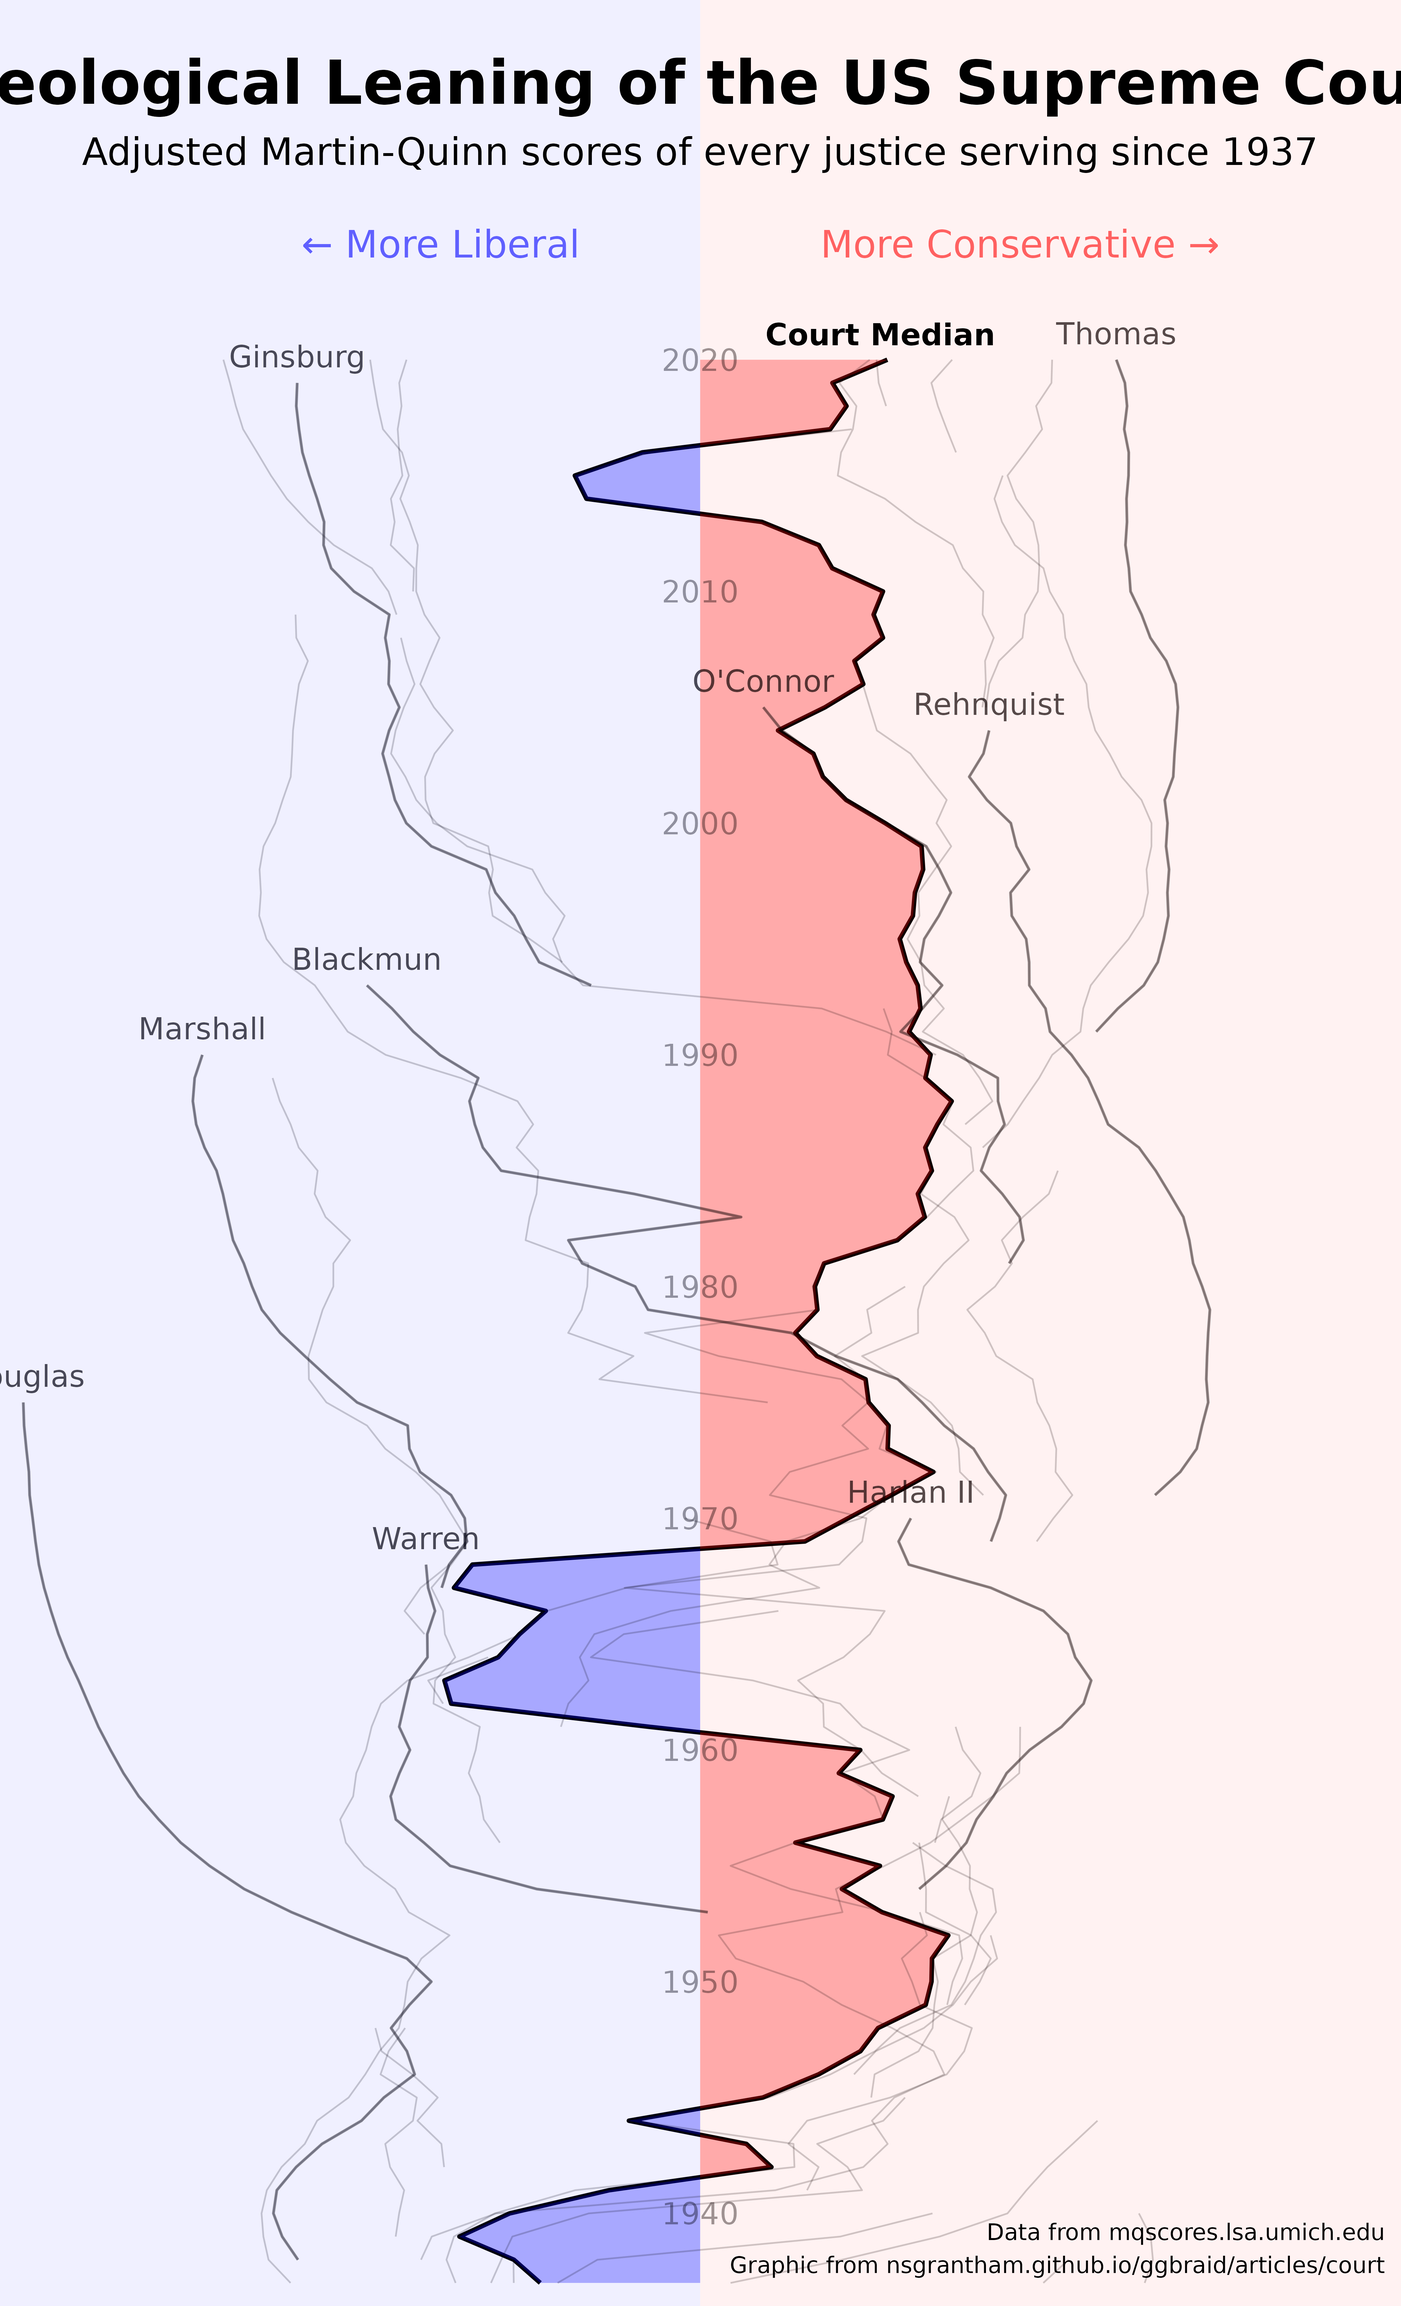
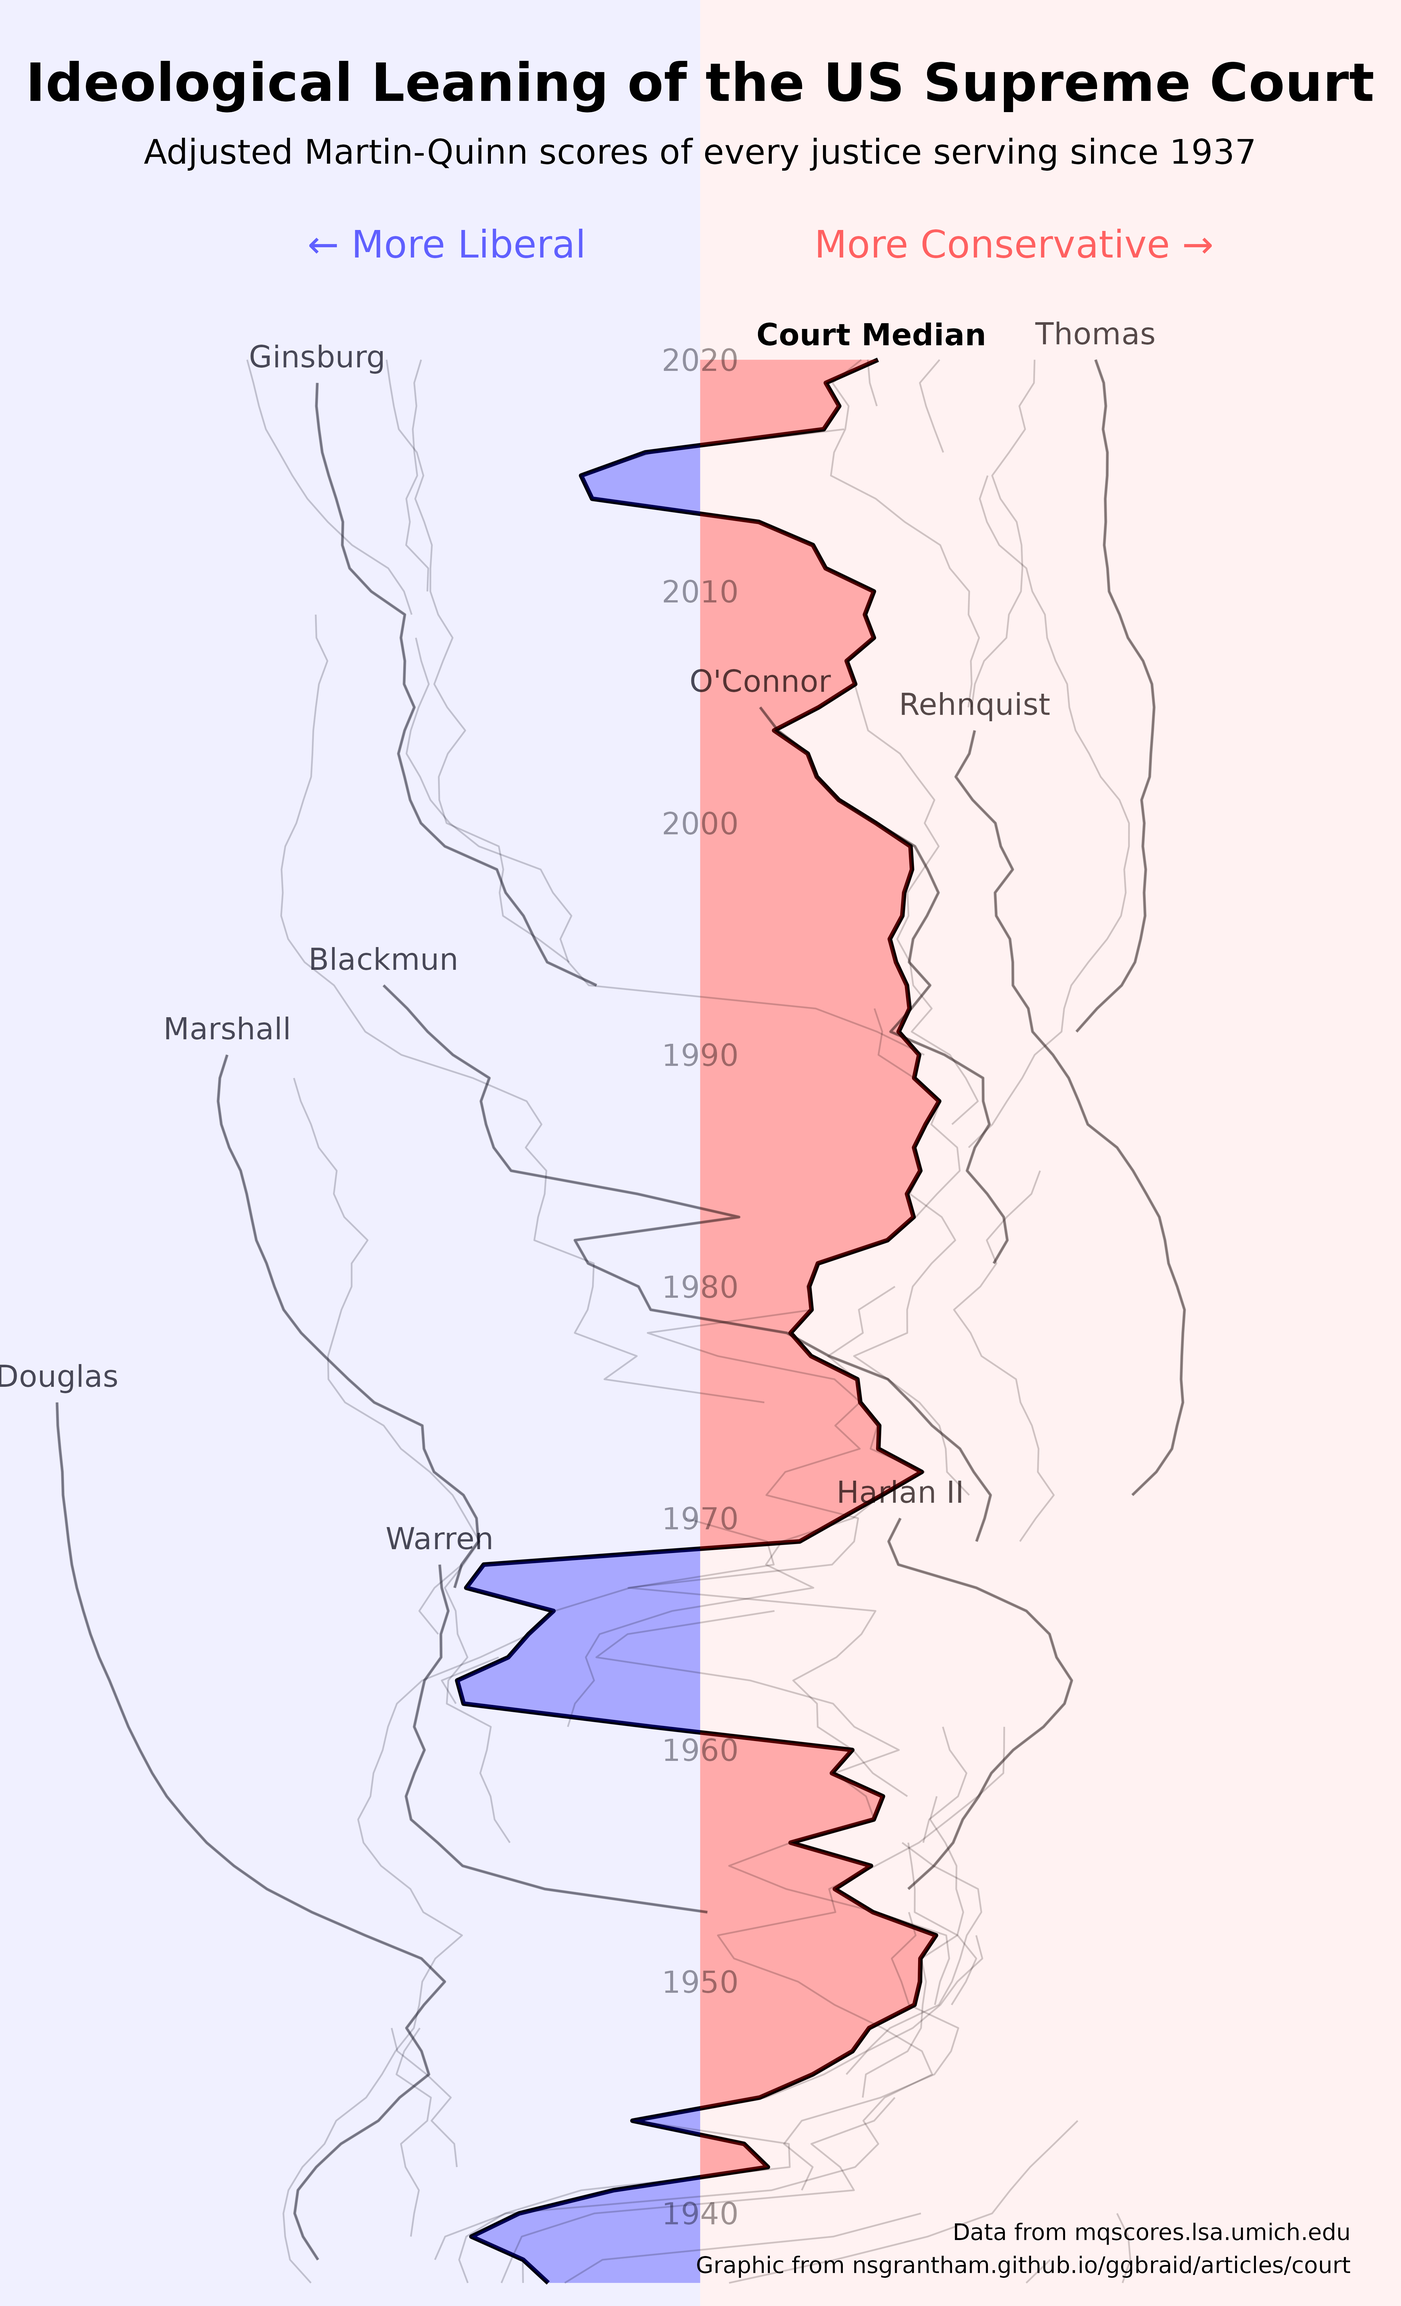
Built site for ggbraid: 0.2.1@149ef15

diff --git a/articles/court.html b/articles/court.html
@@ -340,13 +340,13 @@
   <span class="fu"><a href="https://ggplot2.tidyverse.org/reference/geom_text.html" class="external-link">geom_text</a></span><span class="op">(</span><span class="fu"><a href="https://ggplot2.tidyverse.org/reference/aes.html" class="external-link">aes</a></span><span class="op">(</span>label <span class="op">=</span> <span class="va">year</span>, x <span class="op">=</span> <span class="fl">0</span><span class="op">)</span>, data <span class="op">=</span> <span class="va">decades</span>, size <span class="op">=</span> <span class="fl">4</span>, alpha <span class="op">=</span> <span class="fl">0.4</span><span class="op">)</span> <span class="op">+</span>
   <span class="fu"><a href="https://ggplot2.tidyverse.org/reference/annotate.html" class="external-link">annotate</a></span><span class="op">(</span><span class="st">"rect"</span>, xmin <span class="op">=</span> <span class="op">-</span><span class="cn">Inf</span>, xmax <span class="op">=</span> <span class="fl">0</span>, ymin <span class="op">=</span> <span class="op">-</span><span class="cn">Inf</span>, ymax <span class="op">=</span> <span class="cn">Inf</span>, fill <span class="op">=</span> <span class="st">"blue"</span>, alpha <span class="op">=</span> <span class="fl">0.06</span><span class="op">)</span> <span class="op">+</span>
   <span class="fu"><a href="https://ggplot2.tidyverse.org/reference/annotate.html" class="external-link">annotate</a></span><span class="op">(</span><span class="st">"rect"</span>, xmin <span class="op">=</span> <span class="fl">0</span>, xmax <span class="op">=</span> <span class="cn">Inf</span>, ymin <span class="op">=</span> <span class="op">-</span><span class="cn">Inf</span>, ymax <span class="op">=</span> <span class="cn">Inf</span>, fill <span class="op">=</span> <span class="st">"red"</span>, alpha <span class="op">=</span> <span class="fl">0.05</span><span class="op">)</span> <span class="op">+</span>
-  <span class="fu"><a href="https://ggplot2.tidyverse.org/reference/annotate.html" class="external-link">annotate</a></span><span class="op">(</span><span class="st">"text"</span>, x <span class="op">=</span> <span class="fl">0</span>, y <span class="op">=</span> <span class="fl">2032</span>, label <span class="op">=</span> <span class="st">"Ideological Leaning of the US Supreme Court"</span>, fontface <span class="op">=</span> <span class="st">"bold"</span>, size <span class="op">=</span> <span class="fl">8</span><span class="op">)</span> <span class="op">+</span>
-  <span class="fu"><a href="https://ggplot2.tidyverse.org/reference/annotate.html" class="external-link">annotate</a></span><span class="op">(</span><span class="st">"text"</span>, x <span class="op">=</span> <span class="fl">0</span>, y <span class="op">=</span> <span class="fl">2029</span>, label <span class="op">=</span> <span class="st">"Adjusted Martin-Quinn scores of every justice serving since 1937"</span>, size <span class="op">=</span> <span class="fl">5</span><span class="op">)</span> <span class="op">+</span>
+  <span class="fu"><a href="https://ggplot2.tidyverse.org/reference/annotate.html" class="external-link">annotate</a></span><span class="op">(</span><span class="st">"text"</span>, x <span class="op">=</span> <span class="fl">0</span>, y <span class="op">=</span> <span class="fl">2032</span>, label <span class="op">=</span> <span class="st">"Ideological Leaning of the US Supreme Court"</span>, fontface <span class="op">=</span> <span class="st">"bold"</span>, size <span class="op">=</span> <span class="fl">7</span><span class="op">)</span> <span class="op">+</span>
+  <span class="fu"><a href="https://ggplot2.tidyverse.org/reference/annotate.html" class="external-link">annotate</a></span><span class="op">(</span><span class="st">"text"</span>, x <span class="op">=</span> <span class="fl">0</span>, y <span class="op">=</span> <span class="fl">2029</span>, label <span class="op">=</span> <span class="st">"Adjusted Martin-Quinn scores of every justice serving since 1937"</span>, size <span class="op">=</span> <span class="fl">4.5</span><span class="op">)</span> <span class="op">+</span>
   <span class="fu"><a href="https://ggplot2.tidyverse.org/reference/annotate.html" class="external-link">annotate</a></span><span class="op">(</span><span class="st">"text"</span>, x <span class="op">=</span> <span class="fl">2.85</span>, y <span class="op">=</span> <span class="fl">1938.5</span>, label <span class="op">=</span> <span class="st">"Data from mqscores.lsa.umich.edu\nGraphic from nsgrantham.github.io/ggbraid/articles/court"</span>, size <span class="op">=</span> <span class="fl">3</span>, hjust <span class="op">=</span> <span class="fl">1</span><span class="op">)</span> <span class="op">+</span>
   <span class="fu"><a href="https://ggplot2.tidyverse.org/reference/annotate.html" class="external-link">annotate</a></span><span class="op">(</span><span class="st">"text"</span>, x <span class="op">=</span> <span class="op">-</span><span class="fl">0.5</span>, y <span class="op">=</span> <span class="fl">2025</span>, label <span class="op">=</span> <span class="st">"← More Liberal"</span>, hjust <span class="op">=</span> <span class="fl">1</span>, color <span class="op">=</span> <span class="st">"blue"</span>, size <span class="op">=</span> <span class="fl">5</span>, alpha <span class="op">=</span> <span class="fl">0.6</span><span class="op">)</span> <span class="op">+</span>
   <span class="fu"><a href="https://ggplot2.tidyverse.org/reference/annotate.html" class="external-link">annotate</a></span><span class="op">(</span><span class="st">"text"</span>, x <span class="op">=</span> <span class="fl">0.5</span>, y <span class="op">=</span> <span class="fl">2025</span>, label <span class="op">=</span> <span class="st">"More Conservative →"</span>, hjust <span class="op">=</span> <span class="fl">0</span>, color <span class="op">=</span> <span class="st">"red"</span>, size <span class="op">=</span> <span class="fl">5</span>, alpha <span class="op">=</span> <span class="fl">0.6</span><span class="op">)</span> <span class="op">+</span>
   <span class="fu"><a href="https://ggplot2.tidyverse.org/reference/annotate.html" class="external-link">annotate</a></span><span class="op">(</span><span class="st">"text"</span>, x <span class="op">=</span> <span class="fl">0.75</span>, y <span class="op">=</span> <span class="fl">2021.1</span>, label <span class="op">=</span> <span class="st">"Court Median"</span>, fontface <span class="op">=</span> <span class="st">"bold"</span>, size <span class="op">=</span> <span class="fl">4</span><span class="op">)</span> <span class="op">+</span>
-  <span class="fu"><a href="https://ggplot2.tidyverse.org/reference/scale_continuous.html" class="external-link">scale_x_continuous</a></span><span class="op">(</span>limits <span class="op">=</span> <span class="fu"><a href="https://rdrr.io/r/base/c.html" class="external-link">c</a></span><span class="op">(</span><span class="op">-</span><span class="fl">2.85</span>, <span class="fl">2.85</span><span class="op">)</span>, expand <span class="op">=</span> <span class="fu"><a href="https://rdrr.io/r/base/c.html" class="external-link">c</a></span><span class="op">(</span><span class="fl">0.01</span>, <span class="fl">0.01</span><span class="op">)</span><span class="op">)</span> <span class="op">+</span>
+  <span class="fu"><a href="https://ggplot2.tidyverse.org/reference/scale_continuous.html" class="external-link">scale_x_continuous</a></span><span class="op">(</span>limits <span class="op">=</span> <span class="fu"><a href="https://rdrr.io/r/base/c.html" class="external-link">c</a></span><span class="op">(</span><span class="op">-</span><span class="fl">3</span>, <span class="fl">3</span><span class="op">)</span>, expand <span class="op">=</span> <span class="fu"><a href="https://rdrr.io/r/base/c.html" class="external-link">c</a></span><span class="op">(</span><span class="fl">0.01</span>, <span class="fl">0.01</span><span class="op">)</span><span class="op">)</span> <span class="op">+</span>
   <span class="fu"><a href="https://ggplot2.tidyverse.org/reference/scale_continuous.html" class="external-link">scale_y_continuous</a></span><span class="op">(</span>limits <span class="op">=</span> <span class="fu"><a href="https://rdrr.io/r/base/c.html" class="external-link">c</a></span><span class="op">(</span><span class="cn">NA</span>, <span class="fl">2034.5</span><span class="op">)</span>, expand <span class="op">=</span> <span class="fu"><a href="https://rdrr.io/r/base/c.html" class="external-link">c</a></span><span class="op">(</span><span class="fl">0.01</span>, <span class="fl">0.05</span><span class="op">)</span><span class="op">)</span> <span class="op">+</span>
   <span class="fu"><a href="https://ggplot2.tidyverse.org/reference/scale_manual.html" class="external-link">scale_fill_manual</a></span><span class="op">(</span>values <span class="op">=</span> <span class="fu"><a href="https://rdrr.io/r/base/c.html" class="external-link">c</a></span><span class="op">(</span><span class="st">"red"</span>, <span class="st">"blue"</span><span class="op">)</span><span class="op">)</span> <span class="op">+</span>
   <span class="fu"><a href="https://ggplot2.tidyverse.org/reference/guides.html" class="external-link">guides</a></span><span class="op">(</span>fill <span class="op">=</span> <span class="st">"none"</span><span class="op">)</span> <span class="op">+</span>
@@ -371,7 +371,7 @@
 
     <footer><div class="pkgdown-footer-left">
   <p></p>
-<p>Developed by <a href="https://nsgrantham.com" class="external-link">Neal Grantham</a>.</p>
+<p>Developed by <a href="https://twitter.com/nsgrantham" class="external-link">Neal Grantham</a>.</p>
 </div>
 
 <div class="pkgdown-footer-right">

diff --git a/articles/hoops.html b/articles/hoops.html
@@ -272,7 +272,6 @@
     alpha <span class="op">=</span> <span class="fl">0.2</span>
   <span class="op">)</span></code></pre></div>
 <p><img src="hoops_files/figure-html/geom-braid-hoops-without-fill-1.png" width="100%"></p>
-<p>Voila!</p>
 <p>While we’re at it, why don’t we color the ribbon differently depending on the team that is winning?</p>
 <div class="sourceCode" id="cb9"><pre class="downlit sourceCode r">
 <code class="sourceCode R"><span class="va">p</span> <span class="op">+</span>
@@ -293,7 +292,7 @@
 
     <footer><div class="pkgdown-footer-left">
   <p></p>
-<p>Developed by <a href="https://nsgrantham.com" class="external-link">Neal Grantham</a>.</p>
+<p>Developed by <a href="https://twitter.com/nsgrantham" class="external-link">Neal Grantham</a>.</p>
 </div>
 
 <div class="pkgdown-footer-right">

diff --git a/authors.html b/authors.html
@@ -55,7 +55,7 @@
       <h2>Authors</h2>
       
       <ul class="list-unstyled"><li>
-          <p><strong><a href="https://nsgrantham.com" class="external-link">Neal Grantham</a></strong>. Maintainer. 
+          <p><strong><a href="https://twitter.com/nsgrantham" class="external-link">Neal Grantham</a></strong>. Maintainer. 
           </p>
         </li>
       </ul></div>
@@ -80,7 +80,7 @@ https://nsgrantham.github.io/ggbraid, https://github.com/nsgrantham/ggbraid.
 
 
     <footer><div class="pkgdown-footer-left">
-  <p></p><p>Developed by <a href="https://nsgrantham.com" class="external-link">Neal Grantham</a>.</p>
+  <p></p><p>Developed by <a href="https://twitter.com/nsgrantham" class="external-link">Neal Grantham</a>.</p>
 </div>
 
 <div class="pkgdown-footer-right">

diff --git a/index.html b/index.html
@@ -197,7 +197,7 @@
 <h2 data-toc-skip>Developers</h2>
 <ul class="list-unstyled">
 <li>
-<a href="https://nsgrantham.com" class="external-link">Neal Grantham</a> <br><small class="roles"> Maintainer </small>  </li>
+<a href="https://twitter.com/nsgrantham" class="external-link">Neal Grantham</a> <br><small class="roles"> Maintainer </small>  </li>
 </ul>
 </div>
 
@@ -209,7 +209,7 @@
 
     <footer><div class="pkgdown-footer-left">
   <p></p>
-<p>Developed by <a href="https://nsgrantham.com" class="external-link">Neal Grantham</a>.</p>
+<p>Developed by <a href="https://twitter.com/nsgrantham" class="external-link">Neal Grantham</a>.</p>
 </div>
 
 <div class="pkgdown-footer-right">

diff --git a/reference/geom_braid.html b/reference/geom_braid.html
@@ -289,7 +289,7 @@ the default plot specification, e.g. <code><a href="https://ggplot2.tidyverse.or
 
 
     <footer><div class="pkgdown-footer-left">
-  <p></p><p>Developed by <a href="https://nsgrantham.com" class="external-link">Neal Grantham</a>.</p>
+  <p></p><p>Developed by <a href="https://twitter.com/nsgrantham" class="external-link">Neal Grantham</a>.</p>
 </div>
 
 <div class="pkgdown-footer-right">

diff --git a/404.html b/404.html
@@ -86,7 +86,7 @@ Content not found. Please use links in the navbar.
 
     <footer><div class="pkgdown-footer-left">
   <p></p>
-<p>Developed by <a href="https://nsgrantham.com" class="external-link">Neal Grantham</a>.</p>
+<p>Developed by <a href="https://twitter.com/nsgrantham" class="external-link">Neal Grantham</a>.</p>
 </div>
 
 <div class="pkgdown-footer-right">

diff --git a/articles/index.html b/articles/index.html
@@ -66,7 +66,7 @@
 
 
     <footer><div class="pkgdown-footer-left">
-  <p></p><p>Developed by <a href="https://nsgrantham.com" class="external-link">Neal Grantham</a>.</p>
+  <p></p><p>Developed by <a href="https://twitter.com/nsgrantham" class="external-link">Neal Grantham</a>.</p>
 </div>
 
 <div class="pkgdown-footer-right">

diff --git a/news/index.html b/news/index.html
@@ -76,7 +76,7 @@
 
 
     <footer><div class="pkgdown-footer-left">
-  <p></p><p>Developed by <a href="https://nsgrantham.com" class="external-link">Neal Grantham</a>.</p>
+  <p></p><p>Developed by <a href="https://twitter.com/nsgrantham" class="external-link">Neal Grantham</a>.</p>
 </div>
 
 <div class="pkgdown-footer-right">

diff --git a/reference/ggbraid-package.html b/reference/ggbraid-package.html
@@ -69,7 +69,7 @@
 
 
     <footer><div class="pkgdown-footer-left">
-  <p></p><p>Developed by <a href="https://nsgrantham.com" class="external-link">Neal Grantham</a>.</p>
+  <p></p><p>Developed by <a href="https://twitter.com/nsgrantham" class="external-link">Neal Grantham</a>.</p>
 </div>
 
 <div class="pkgdown-footer-right">

diff --git a/reference/index.html b/reference/index.html
@@ -72,7 +72,7 @@
 
 
     <footer><div class="pkgdown-footer-left">
-  <p></p><p>Developed by <a href="https://nsgrantham.com" class="external-link">Neal Grantham</a>.</p>
+  <p></p><p>Developed by <a href="https://twitter.com/nsgrantham" class="external-link">Neal Grantham</a>.</p>
 </div>
 
 <div class="pkgdown-footer-right">

diff --git a/articles/temps.html b/articles/temps.html
@@ -361,7 +361,7 @@
 
     <footer><div class="pkgdown-footer-left">
   <p></p>
-<p>Developed by <a href="https://nsgrantham.com" class="external-link">Neal Grantham</a>.</p>
+<p>Developed by <a href="https://twitter.com/nsgrantham" class="external-link">Neal Grantham</a>.</p>
 </div>
 
 <div class="pkgdown-footer-right">
